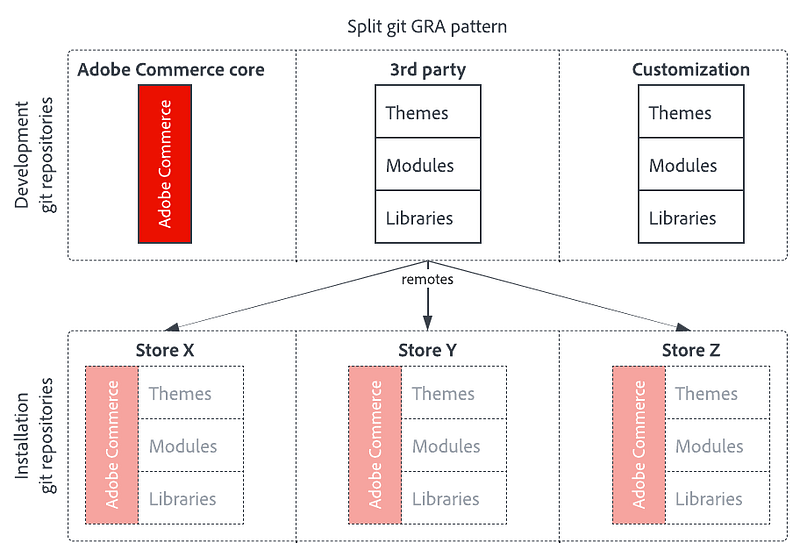
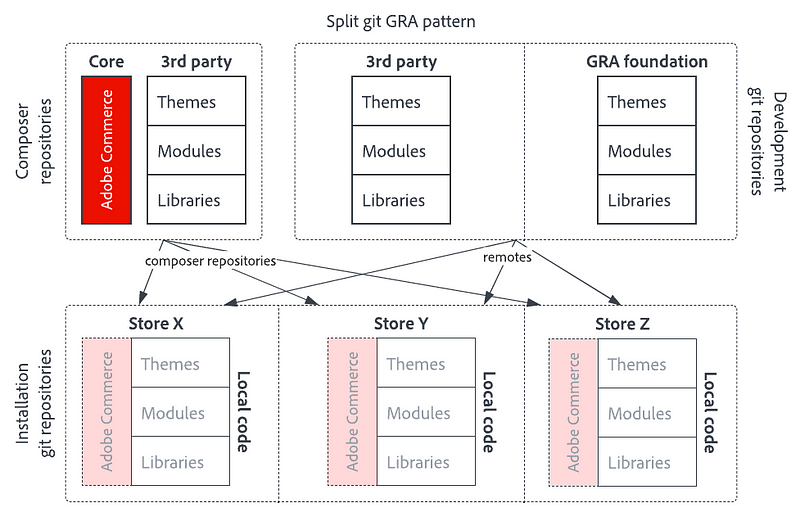
KT-15773 Split Git page work in progress

Changed region(s): [[0.0, 0.0309, 1.0, 0.9884], [0.6875, 0.5251, 0.75, 0.556]]

diff --git a/help/global-reference-architecture/split-git.md b/help/global-reference-architecture/split-git.md
@@ -13,7 +13,140 @@ level: Beginner, Intermediate
 
 ---
 
-# Main H1 title goes here
+# The Split Git global reference architecture pattern
 
-## H2 is this style
+This guide explains how to set up Adobe Commerce with the Split Git Global Reference Architecture (GRA) Pattern.
 
+The split Git GRA pattern involves two Git repositories for development and one Git repository per Adobe Commerce instance. In the examples, it is assumed that each instance represents a unique brand.
+
+![A diagram showing where code is stored in a split GRA pattern](/help/assets/global-reference-architecture/split-git-gra-pattern-diagram.png){align="center"}
+
+## Advantages and disadvantages of this pattern
+
+Advantages:
+
+- Code reuse through a shared code repository
+- Simple GRA pattern, suitable even for teams with limited Composer knowledge
+- In addition to Adobe Commerce modules, themes and language packs, it is possible to install any type of Composer package through this model, including composer-plugin, composer-metapackage, magento2-component and patches
+- Possible to release in phases, planning releases to regions in their own maintenance windows
+- Support for Git tags for administration purposes, not for deployment control
+- Guarantee that the combination of packages in a production deployment is developed and tested in this exact configuration
+
+Disadvantages:
+
+- No added flexibility compared to other GRA patterns
+- Not possible to upgrade or downgrade individual modules per instance, always upgrade or downgrade the GRA as a whole
+- In most cases, the bulk packages pattern is a better fit as it is equally simple, but more conventional
+
+## Setting up Adobe Commerce with the Split Git GRA pattern
+
+### The directory structure
+
+The Split Git GRA pattern has two types of repositories; development repositories and installation repositories. The development repositories only contain part of a full Adobe Commerce installation. The installation repositories contain the full Adobe Commerce installation and are used for deployment, but not for development.
+
+The final directory structure of a full Adobe Commerce installation with the Split Git GRA pattern looks like this:
+
+```text
+.
+├── .gitignore
+├── app/
+│   └── etc/
+│       └── config.php
+├── composer.json
+├── composer.lock
+└── packages/
+    ├── 3rdparty/
+    ├── gra/
+    └── local/
+```
+
+The `app/code`, `app/i18n` and `app/design` directories are omitted on purpose, because Composer does not evaluate code in these directories. As a result, dependencies that are declared in the packages are not automatically installed. The Split Git GRA pattern resolves this issue by installing all custom code in `packages/` and treating that directory as a composer repository. Composer symlinks packages inside `packages/` to `vendor/`.
+
+## Preparing the Git repositories
+
+Create 3 Git repositories for:
+
+1. An Adobe Commerce instance
+2. Third-party code that is not installed through Composer
+3. Your customizations in the form of modules, themes, language packs and such; your GRA
+
+In this guide the following names are used for these repositories:
+
+1. gra-split-brand-x
+2. gra-split-3rdparty
+3. gra-split-gra
+
+All repositories in the Split Git GRA pattern are merged into one. For Git to allow merging multiple repositories, all three repositories need a shared history. Create a Git project with a single commit and push it to all remotes.
+
+```bash
+mkdir gra-split-brand-x
+cd gra-split-brand-x
+git init
+git remote add origin git@github.com:AntonEvers/gra-split-brand-x.git
+git remote add 3rdparty git@github.com:AntonEvers/gra-split-3rdparty.git
+git remote add gra git@github.com:AntonEvers/gra-split-gra.git
+touch .gitkeep
+git add .gitkeep
+git commit -m 'initialize repository'
+git push -u origin main
+git push 3rdparty main
+git push gra main
+```
+
+Pushing the temporary file `.gitkeep` to all remotes creates the same initial commit with the same commit hash, making a shared history. Each change that is created in one remote can be merged to the others.
+
+From here, the repositories diverge. The gra-split-brand-x repository contains brand specific code. The gra-split-3rdparty repository contains only third-party code. The gra-split-gra repository contains only your global reference architecture foundation, which consists of all your custom code.
+
+Install Adobe Commerce in the gra-split-brand-x repository.
+
+```bash
+composer create-project --no-install --repository-url=https://repo.magento.com/ magento/project-enterprise-edition temp
+mv temp/composer.json ./
+rmdir temp
+git add composer.json
+git commit -m 'install Adobe Commerce'
+git push origin main
+```
+
+Create initial commits in the gra-split-3rdparty and the gra-split-gra repositories. The easiest way is by checking out these repositories in separate directories.
+
+```bash
+cd ..
+git clone git@github.com:AntonEvers/gra-split-3rdparty.git
+git clone git@github.com:AntonEvers/gra-split-gra.git
+cd gra-split-3rdparty
+mkdir -p packages/3rdparty
+touch packages/3rdparty/.gitkeep
+git add packages/3rdparty/.gitkeep
+git commit -m 'initialize 3rd party package storage'
+git push origin main
+cd ../gra-split-gra
+mkdir -p packages/gra
+touch packages/gra/.gitkeep
+git add packages/gra/.gitkeep
+git commit -m 'initialize GRA package storage'
+git push origin main
+```
+
+These two repositories store third-party packages and GRA packages. There may be code that is exclusive to each instance of Adobe Commerce. Create a place to store these local packages in the gra-split-brand-x repository.
+
+```bash
+cd ../gra-split-brand-x
+mkdir -p packages/local
+touch packages/local/.gitkeep
+git add packages/local/.gitkeep
+git commit -m 'initialize local package storage'
+git push origin main
+```
+
+## Where to store different types of code
+
+Adobe Commerce is a Composer application. The preferred way to install is always through Composer repositories. Only if a module vendor does not offer installation through a Composer repository, you can store third-party modules in the third-party repository. The preferred place for custom code is in the GRA repository. When a module is only used by one specific instance, it becomes local code.
+
+Summarizing:
+
+- **Adobe Commerce**: stored in a Composer repository.
+- **Third-party modules**: stored in a Composer repository.
+- **Third-party modules fallback option**: stored in the gra-split-3rdparty Git repository.
+- **GRA foundation code**: stored in the gra-split-gra Git repository.
+- **Local code**: stored in the gra-split-brand-x Git repository.

diff --git a/help/global-reference-architecture/overview.md b/help/global-reference-architecture/overview.md
@@ -3,7 +3,7 @@ title: How do you leverage Global Reference Architecture
 description: Learn how to leverage a global reference architecture to establish a scalable and resilient commerce experience
 landing-page-description: Learn about Global Reference Architecture and how it is used with Adobe Commerce
 kt: 14040
-doc-type: video
+doc-type: tutorial
 audience: all
 last-substantial-update: 2023-6-25
 feature: Best Practices, Configuration, Install
@@ -47,7 +47,7 @@ When a GRA pattern is not used, each Adobe Commerce instance is a unique applica
 
 ![An icon depicting the "split" GRA pattern](/help/assets/global-reference-architecture/split-git.png){align="center"}
 
-This pattern consists of a single Git repository, with 3 remotes named; core, third-party and customization. Each file in the project repository is maintained in one of the 3 remotes. They come together as a braid forming the whole GRA. Each line of code only exists in a single development repository and is installed to the instances using the braiding technique, leading to code reuse.
+This pattern consists of Git repositories for development and one Git repository per instance. Each file in the instance is maintained in one of the development repositories. They come together as a braid forming the whole GRA. Each line of code only exists in a single development repository and is installed to the instances using the braiding technique, leading to code reuse.
 
 ![A diagram showing where code is stored in a split GRA pattern](/help/assets/global-reference-architecture/split-git-gra-pattern-diagram.png){align="center"}
 
@@ -77,7 +77,7 @@ All development takes place in a single code repository. Automation generates pa
 
 ## Choosing a GRA pattern
 
-The choice for a GRA pattern is made by assessing the project complexity, the need for flexibility, and the development team's ability to adapt. 
+The choice for a GRA pattern is made by assessing the project complexity, the need for flexibility, and the development team's ability to adapt.
 
 Teams with little Adobe Commerce experience best start simple. However, if the project demands a more complex GRA pattern due to its characteristics, do not compromise.
 
